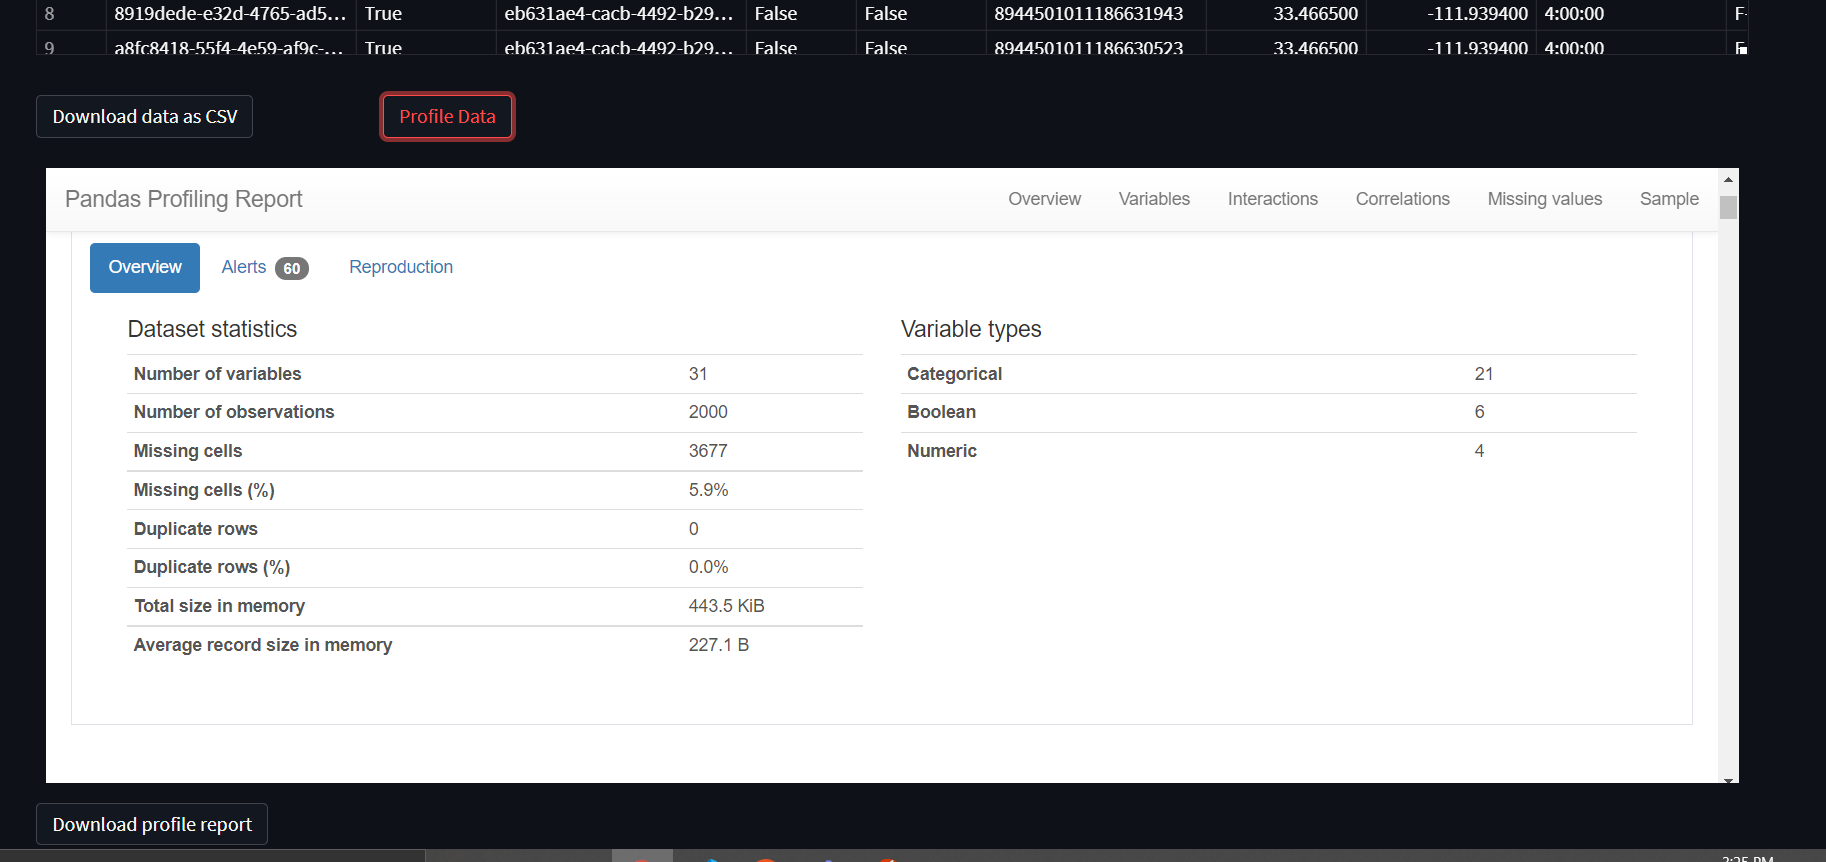
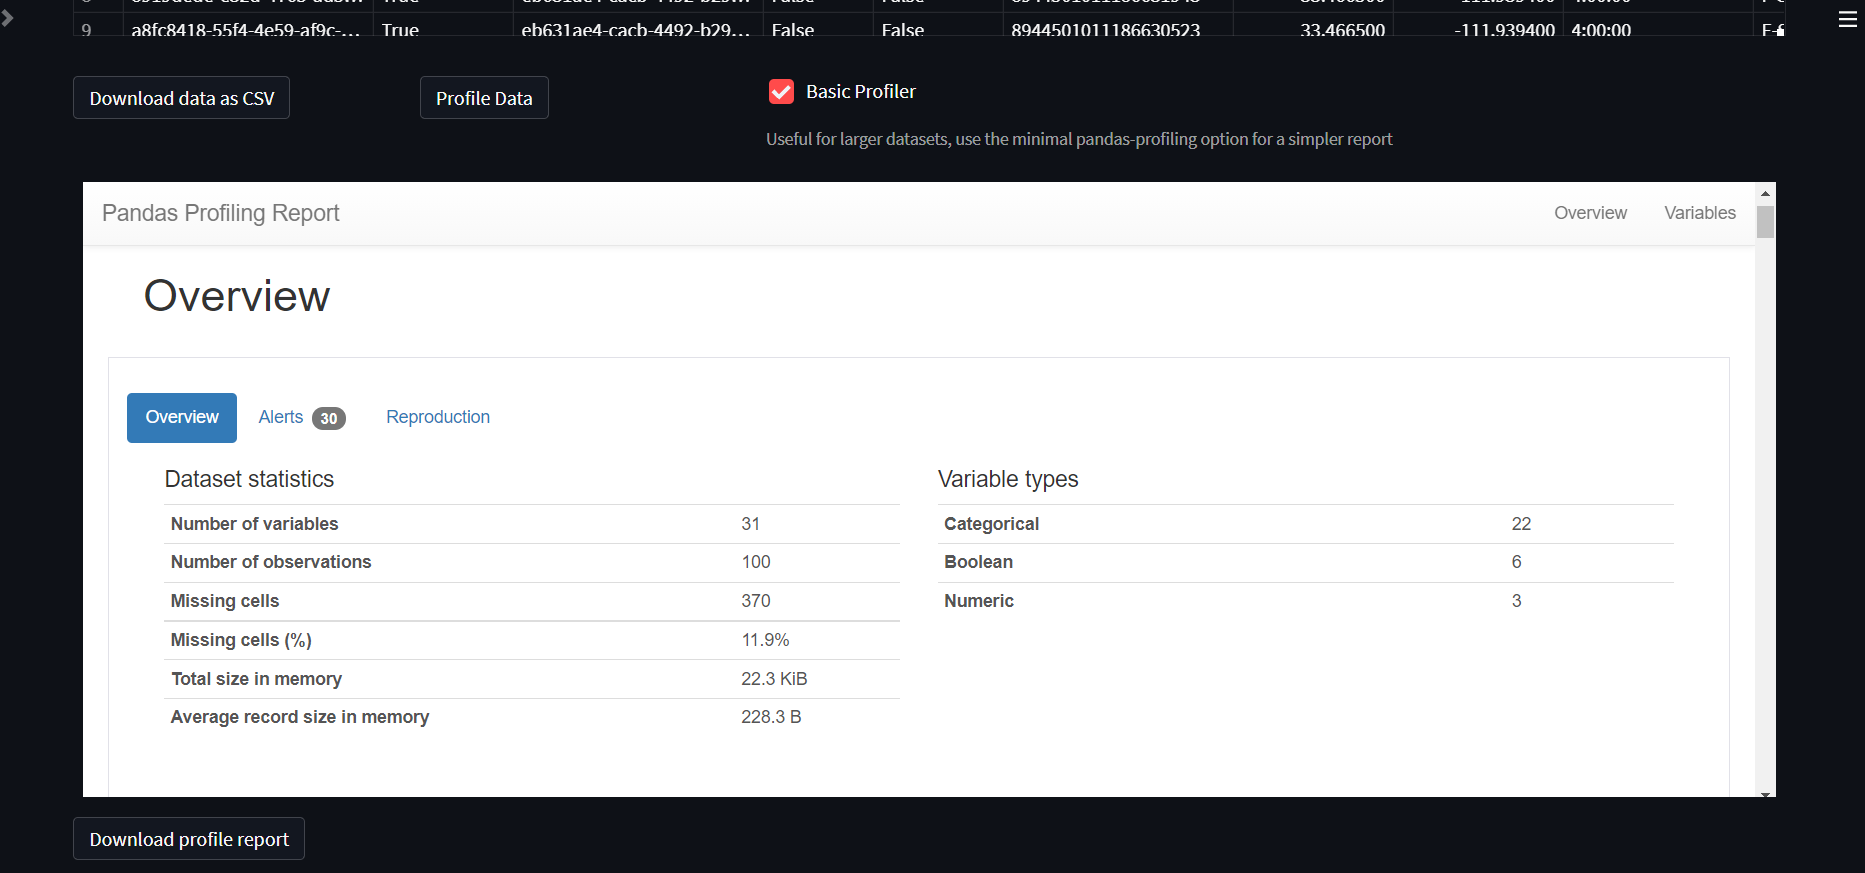
added test runner, add minimal profiler opt, cleanup initial render, update readme

diff --git a/src/dbt_osmosis/app.py b/src/dbt_osmosis/app.py
@@ -10,6 +10,10 @@ import time
 import numpy as np
 import pandas as pd
 import pandas_profiling
+
+# The app does two things we do not scope ourselves to in the CLI:
+# Build Models, Compile Models
+# So include these imports here
 from dbt.contracts.graph import parsed
 from dbt.task.run import ModelRunner
 
@@ -55,8 +59,7 @@ def refresh_dbt():
         cfg=st.session_state["config"],
         flat=False,
     )
-    print("REFRESHED")
-    print(st.session_state["profile"])
+    return True
 
 
 # ----------------------------------------------------------------
@@ -70,56 +73,47 @@ if (
     or "adapter" not in st.session_state
     or "manifest" not in st.session_state
 ):
-    if not st.session_state["celebrate_good_times_oh_yeah"]:
-        init_profile_val = st.session_state["profiles_dir"]
-        init_project_val = st.session_state["project_dir"]
-        config_container = st.form("boot_up")
-        with config_container:
-            st.session_state["profiles_dir"] = st.text_input(
-                "Enter path to profiles.yml",
-                value=init_profile_val,
-            )
-            st.session_state["project_dir"] = st.text_input(
-                "Enter path to dbt_project.yml",
-                value=init_project_val,
-            )
-            proceed = st.form_submit_button("Confirm")
-        if not st.session_state["verified_project"] and not proceed:
-            st.stop()
-        st.session_state["verified_project"] = proceed or st.session_state["verified_project"]
+    init_profile_val = st.session_state["profiles_dir"]
+    init_project_val = st.session_state["project_dir"]
     config_container = st.empty()
-    del config_container
+    bootup_form = config_container.form("boot_up")
+    st.session_state["profiles_dir"] = bootup_form.text_input(
+        "Enter path to profiles.yml",
+        value=init_profile_val,
+        key="prof_select",
+    )
+    st.session_state["project_dir"] = bootup_form.text_input(
+        "Enter path to dbt_project.yml",
+        value=init_project_val,
+        key="proj_select",
+    )
+    proceed = bootup_form.form_submit_button("Load Project")
+    if not proceed:
+        st.stop()
+    config_container.empty()
     with st.spinner(text="Parsing profile and reading your dbt project 🦸"):
-        refresh_dbt()
-    with st.success("Successfully loaded dbt project"):
-        if not st.session_state["celebrate_good_times_oh_yeah"]:
-            st.balloons()
-        time.sleep(3)
+        LOADED = refresh_dbt()
 
-    st.session_state["celebrate_good_times_oh_yeah"] = True
-    st.write(st.session_state["profile"])
 
 # ----------------------------------------------------------------
 # SIDEBAR
 # ----------------------------------------------------------------
 
-st.sidebar.header("Models")
+st.sidebar.header("Profiles")
 
-st.sidebar.write("Select a dwh target")
+st.sidebar.write(
+    "Select a target profile used for materializing, compiling, and testing models. Can be updated at any time."
+)
 for prof in profile_data:
     st.session_state["target_profile"] = st.sidebar.radio(
-        prof, [targ for targ in profile_data[prof]["outputs"]], key="profile_selector"
+        f"Loaded profiles from {prof}",
+        [targ for targ in profile_data[prof]["outputs"]],
+        key="profile_selector",
     )
     break
-st.sidebar.write(f"Current Target: {st.session_state['target_profile']}")
+st.sidebar.markdown(f"Current Target: **{st.session_state['target_profile']}**")
 if st.session_state["profile"].target_name != st.session_state["target_profile"]:
     refresh_dbt()
-
-opts = []
-for node, config in st.session_state["manifest"].flat_graph["nodes"].items():
-    if config["resource_type"] == "model":
-        opts.append(node)
-        # st.sidebar.button(config["name"])
 
 # ----------------------------------------------------------------
 # MODEL IDE
@@ -145,12 +139,21 @@ def toggle_reset():
 
 
 # Model Selector For IDE
+opts = []
+for node, config in st.session_state["manifest"].flat_graph["nodes"].items():
+    if config["resource_type"] == "model":
+        opts.append(node)
+
 with st.container():
     choice = st.selectbox("Select a model", options=opts)
     model = st.session_state["manifest"].flat_graph["nodes"].get(choice)
 
 st.write("")
-auto_compile = st.checkbox("Automatically compile SQL on change", key="auto_compile_flag")
+auto_compile = st.checkbox("Dynamic Compilation", key="auto_compile_flag")
+if auto_compile:
+    st.caption("Compiling SQL on change")
+else:
+    st.caption("Compiling SQL with control + enter")
 
 if choice not in st.session_state["model_rev"]:
     # Here is our LTS
@@ -468,6 +471,7 @@ if node.same_body(unmodified_node):
 
     with col_test:
         st.button("Test Compiled Query", on_click=test_query)
+        st.caption("This will run the compiled SQL against your data warehouse")
 
     with col_select_1:
         limit = st.number_input(
@@ -479,7 +483,7 @@ else:
 
     with col_test:
         st.button("Test Compiled Query", on_click=test_query)
-        st.caption("This will run the compiled SQl against your data warehouse")
+        st.caption("This will run the compiled SQL against your data warehouse")
 
     with col_select_2:
         pk_opts = database_columns or list(model["columns"].keys())
@@ -512,7 +516,9 @@ if not st.session_state["sql_data"].empty:
     )
 else:
     st.write("")
-    st.write("Introspect the results of your workbench query")
+    st.markdown(
+        "> The results of your workbench query will show up here. Click `Test Compiled Query` to see the results. "
+    )
     st.write("")
 
 
@@ -528,8 +534,8 @@ def convert_df_to_csv(sql_data):
     },
     allow_output_mutation=True,
 )
-def build_profile_report(sql_data):
-    return sql_data.profile_report()
+def build_profile_report(sql_data: pd.DataFrame, minimal: bool):
+    return sql_data.profile_report(minimal=minimal)
 
 
 @st.cache(
@@ -538,12 +544,12 @@ def build_profile_report(sql_data):
         pandas_profiling.report.presentation.core.html.HTML: lambda _: compiled_node,
     }
 )
-def convert_profile_report_to_html(profiled_data):
+def convert_profile_report_to_html(profiled_data: pandas_profiling.ProfileReport) -> str:
     return profiled_data.to_html()
 
 
 st.write("")
-col_download, col_profile, _ = st.columns([1, 1, 3])
+col_download, col_profile, col_profile_opt = st.columns([1, 1, 3])
 with col_download:
     st.download_button(
         label="Download data as CSV",
@@ -553,15 +559,21 @@ with col_download:
     )
 with col_profile:
     st.button("Profile Data", key="do_profile")
+with col_profile_opt:
+    st.checkbox("Basic Profiler", key="do_profile_minimal")
+    st.caption(
+        "Useful for larger datasets, use the minimal pandas-profiling option for a simpler report"
+    )
 
 if st.session_state["do_profile"]:
-    pr = build_profile_report(st.session_state["sql_data"])
+    pr = build_profile_report(st.session_state["sql_data"], st.session_state["do_profile_minimal"])
     st_profile_report(pr, height=500)
     st.download_button(
         label="Download profile report",
         data=convert_profile_report_to_html(pr),
         file_name=f"{choice}_profile.html",
         mime="text/html",
+        key="query_result_downloader",
     )
     st.write("")
 
@@ -588,10 +600,87 @@ with st.expander("Edit documentation"):
 # ----------------------------------------------------------------
 
 st.subheader("Test Runner")
-for test in model["depends_on"]["nodes"]:
-    if test.startswith("test"):
-        st.write(test)
-st.write("Tests will be listed out here and can be executed and validated on the fly")
+st.write("Execute configured tests and validate results")
+
+if "test_results" not in st.session_state:
+    st.session_state["test_results"] = pd.DataFrame()
+
+if "test_meta" not in st.session_state:
+    st.session_state["test_meta"] = ""
+
+
+def run_test(test_node):
+    with st.session_state["adapter"].connection_named("dbt-osmosis-tester"):
+        test_sql = getattr(test_node, "compiled_sql", None)
+        if not test_sql:
+            compiled_test = (
+                st.session_state["adapter"]
+                .get_compiler()
+                .compile_node(test_node, st.session_state["manifest"])
+            )
+            test_sql = compiled_test.compiled_sql
+        test_results = st.session_state["adapter"].execute(
+            test_sql,
+            fetch=True,
+        )
+    table = test_results[1]
+    output = []
+    json_funcs = [c.jsonify for c in table._column_types]
+    for row in table._rows:
+        values = tuple(json_funcs[i](d) for i, d in enumerate(row))
+        output.append(OrderedDict(zip(row.keys(), values)))
+    st.session_state["test_meta"] = test_results[0]
+    st.session_state["test_results"] = pd.DataFrame(output)
+
+
+test_opts = {}
+for node, config in st.session_state["manifest"].nodes.items():
+    if config.resource_type == "test" and choice in config.depends_on.nodes:
+        test_opts[config.name] = config
+
+test_pick_col, test_result_col, test_kpi_col = st.columns([2, 1, 1])
+
+if test_opts:
+    with test_pick_col:
+        selected_test = st.selectbox("Model Test", list(test_opts.keys()), key="test_picker")
+        st.button(
+            "Run Test",
+            key="test_runner",
+            on_click=run_test,
+            kwargs={"test_node": test_opts[selected_test]},
+        )
+    test_record_count = len(st.session_state["test_results"].index)
+    with test_kpi_col:
+        if st.session_state["test_meta"]:
+            st.metric(label="Failing Records", value=test_record_count)
+            st.markdown("#### PASSED" if test_record_count == 0 else "#### FAILED")
+    with test_result_col:
+        if st.session_state["test_meta"]:
+            st.write("Completed Test Metadata")
+            st.caption(f"Model Name: {model['name']}")
+            st.caption(f"Test Name: {selected_test}")
+            if st.session_state["test_results"].empty:
+                st.caption("Test Result: **Passed**! No failing records detected")
+            else:
+                st.caption(f"Test Result: **Failed**! {test_record_count} failing records detected")
+    if st.session_state["test_meta"]:
+        with st.expander("Test Results", expanded=True):
+            st.write("Adapter Response")
+            st.write(st.session_state["test_meta"].__dict__)
+            st.write("")
+            st.write("Returned Data")
+            st.dataframe(st.session_state["test_results"])
+            st.write("")
+            st.download_button(
+                label="Download test results as CSV",
+                data=convert_df_to_csv(st.session_state["test_results"]),
+                file_name=f"{selected_test}.csv",
+                mime="text/csv",
+                key="test_result_downloader",
+            )
+            st.write("")
+else:
+    st.write(f"No tests found for model {choice}")
 
 # ----------------------------------------------------------------
 # MANIFEST INSPECTOR

diff --git a/README.md b/README.md
@@ -9,8 +9,12 @@
 
 ## Primary Objectives
 
-Hello and welcome to the project! [dbt-osmosis](https://github.com/z3z1ma/dbt-osmosis) 🌊 serves to enhance the developer experience significantly. We do this by automating the most of the management of schema yml files, we synchronize inheritable column level documentation which permits a write-it-once principle in a DAG oriented way, we enforce user-defined organization for schema yml files in your dbt project automatically making it super tidy, we automatically inject models which are undocumented into the appropriate schema right where you expect it, and we expose a **workbench** which allows you to interactively develop in dbt. The workbench allows you to develop and instantly compile models side by side (extremely performant compilation), document model columns, test the query against your data warehouse, inspect row level diffs and diff metric as you modify SQL, run tests, and more. 
+Hello and welcome to the project! [dbt-osmosis](https://github.com/z3z1ma/dbt-osmosis) 🌊 serves to enhance the developer experience significantly. We do this by automating the most of the management of schema yml files, we synchronize inheritable column level documentation which permits a write-it-once principle in a DAG oriented way, we enforce user-defined organization for schema yml files in your dbt project automatically making it super tidy, we automatically inject models which are undocumented into the appropriate schema right where you expect it, and we expose a **workbench** which allows you to interactively develop in dbt. The workbench allows you to develop and instantly compile models side by side (extremely performant compilation), document model columns, test the query against your data warehouse, inspect row level diffs and diff metric as you modify SQL, run dbt tests interactively & download results, and more. 
 
+
+[Workbench Reference](#Workbench)
+
+[CLI Reference](#Workbench)
 
 ____
 
@@ -30,8 +34,6 @@ There is still a lot on the roadmap regarding robustness of diffs (currently we 
 
 ✔ Materialize Active Model in Warehouse
 
-  - Not handling building of upstream dependencies if they are not materialized
-
 ✔ Query Tester
 
 ✔ SQL Model Data Diffs
@@ -42,18 +44,16 @@ There is still a lot on the roadmap regarding robustness of diffs (currently we 
 
 ✔ Data Profiler (leverages pandas-profiling)
 
-  - Need to expose config option for details or basic report to account for vairable dataset size
-
 ⚠ Doc Editor
 
   - View only, modifications aren't committed yet
 
-❗ Test Runner (not implemented yet)
+✔ Test Runner
 
 ✔ Manifest View
 
 
-The editor is able to compile models with control+enter or as you type. Its speedy!
+The editor is able to compile models with control+enter or dynamically as you type. Its speedy!
 
 ![editor](/screenshots/osmosis_editor.png?raw=true "dbt-osmosis Workbench")
 
@@ -76,6 +76,17 @@ Test dbt models as you work against whatever profile you have selected and inspe
 As you develop and modify a model with uncommitted changes, you can calculate the diff. This allows you instant feedback on if the changes you make are safe.
 
 ![diff-model](/screenshots/osmosis_row_level_diff.png?raw=true "dbt-osmosis Diff Model")
+
+
+Profile your datasets on the fly while you develop without switching context. Allows for more refined interactive data modelling when dataset fits in memory.
+
+![profile-data](/screenshots/osmosis_profile_data.png?raw=true "dbt-osmosis Profile Data")
+
+
+Run declared dbt data tests interactively with the ability to download the results to CSV.
+
+![data-tests](/screenshots/osmosis_data_tests.png?raw=true "dbt-osmosis Data Tests")
+
 
 ____
 
